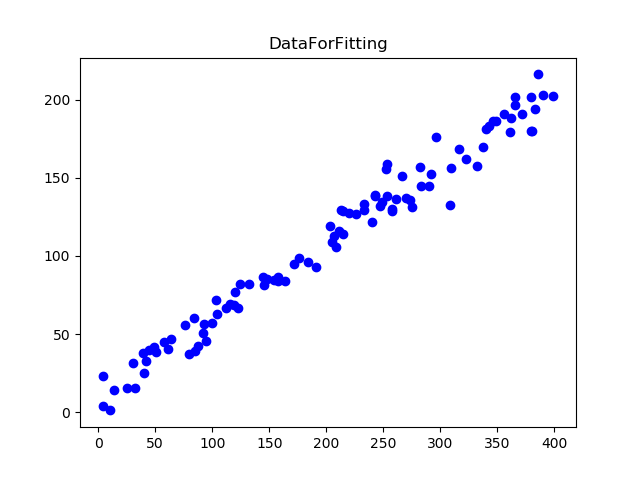
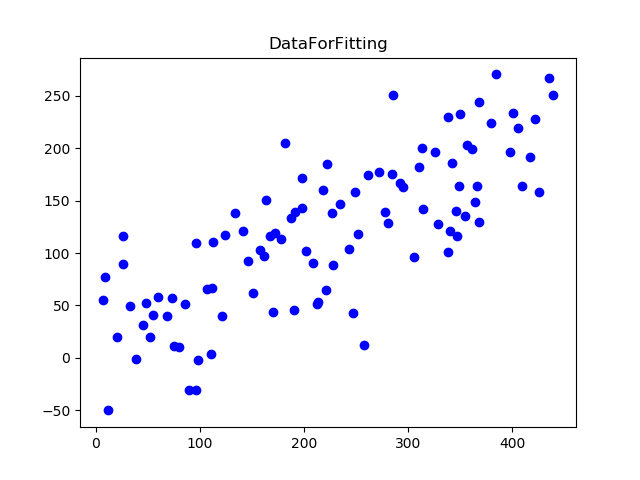
完成了拟合的代码编写（梯度下降方法） 最后的线条渐变疑似有问题，有待检查 图表注释项原数据、现数据的对比待增加

diff --git a/Step1_Operate/Fitting.py b/Step1_Operate/Fitting.py
@@ -6,5 +6,88 @@
 @Tool : PyCharm
 
 """
+import matplotlib.pyplot as plt
+import numpy as np
+import time
 
 
+# Parameter settings
+def Init():
+    StepLength_k = 0.000001
+    StepLength_b = 0.000001
+    k = 0
+    b = 0
+    number = 50
+    return StepLength_k, StepLength_b, k, b, number
+
+
+def Fitting(dots, StepLength_k, StepLength_b, k, b):
+    start = time.time()
+    set_k = []
+    set_b = []
+    count = 0
+    for j in range(0, 1000):
+        sum_k = 0
+        sum_b = 0
+        for dot in dots:
+            sum_k += (b + k * dot[0] - dot[1]) * dot[0]
+            sum_b += b + k * dot[0] - dot[1]
+        k = k - StepLength_k * sum_k / len(dots)
+        b = b - StepLength_b * sum_b / len(dots)
+        set_k.append(k)
+        set_b.append(b)
+        count = j
+        if abs(StepLength_k * sum_k / len(dots)) < 1e-5 and abs(StepLength_b * sum_b / len(dots)) < 1e-5:
+            break
+        end = time.time()
+        timeuse = round(end - start,5)
+    return set_k, set_b, count, timeuse
+
+
+# Read the data
+def ReadData():
+    dots = []
+    filename = "data.txt"
+    file_path = '../Data&Results/Fitting/' + filename
+    with open(file_path) as file:
+        for line in file:
+            dot = line.rstrip().split(",")
+            '''use rstrip here to delete the /n'''
+            dot[0] = float(dot[0])
+            dot[1] = float(dot[1])
+            dots.append(dot)
+    return dots
+
+
+# Draw and save
+def draw(dots, set_k, set_b, number, count, timeuse):
+    colors = []
+    num_color = np.linspace(1068683, 2003199, num=number, endpoint=True)
+    for num in num_color:
+        num = int(num)
+        colors.append("#" + str(hex(num))[2:])
+    set_i = np.linspace(0, len(set_k) - 1, num=number, endpoint=True)
+    for i, color in zip(set_i, colors):
+        i = int(i)
+        x = [min(x[0] for x in dots), max(x[0] for x in dots)]
+        y = [set_k[i] * x[0] + set_b[i], set_k[i] * x[1] + set_b[i]]
+        plt.plot(x, y, color=color)
+        if i==int(set_i[-1]):
+            plt.annotate("best match",xy=(x[1]/2,y[1]/2),xytext=(x[1]/2,y[1]),arrowprops=dict(arrowstyle='->'))
+    plt.scatter([x[0] for x in dots], [x[1] for x in dots], c='b')
+    plt.title('FittingResults')
+    plt.text(0,200,'timeuse='+str(timeuse)+"s\nround="+str(count))
+    plt.savefig('../Data&Results/Fitting/FittingResult.png')
+    plt.show()
+
+
+# main function
+def main():
+    dots = ReadData()
+    StepLength_k, StepLength_b, k, b, number = Init()
+    set_k, set_b, count, timeuse = Fitting(dots, StepLength_k, StepLength_b, k, b)
+    draw(dots, set_k, set_b, number, count, timeuse)
+
+
+if __name__ == '__main__':
+    main()

diff --git a/Step0_CreateData/DataForFitting.py b/Step0_CreateData/DataForFitting.py
@@ -15,7 +15,7 @@ import random
 k = 0.5
 b = 10
 chaos_x = 5
-chaos_y = 10
+chaos_y = 50
 x = 0
 
 # Create data
